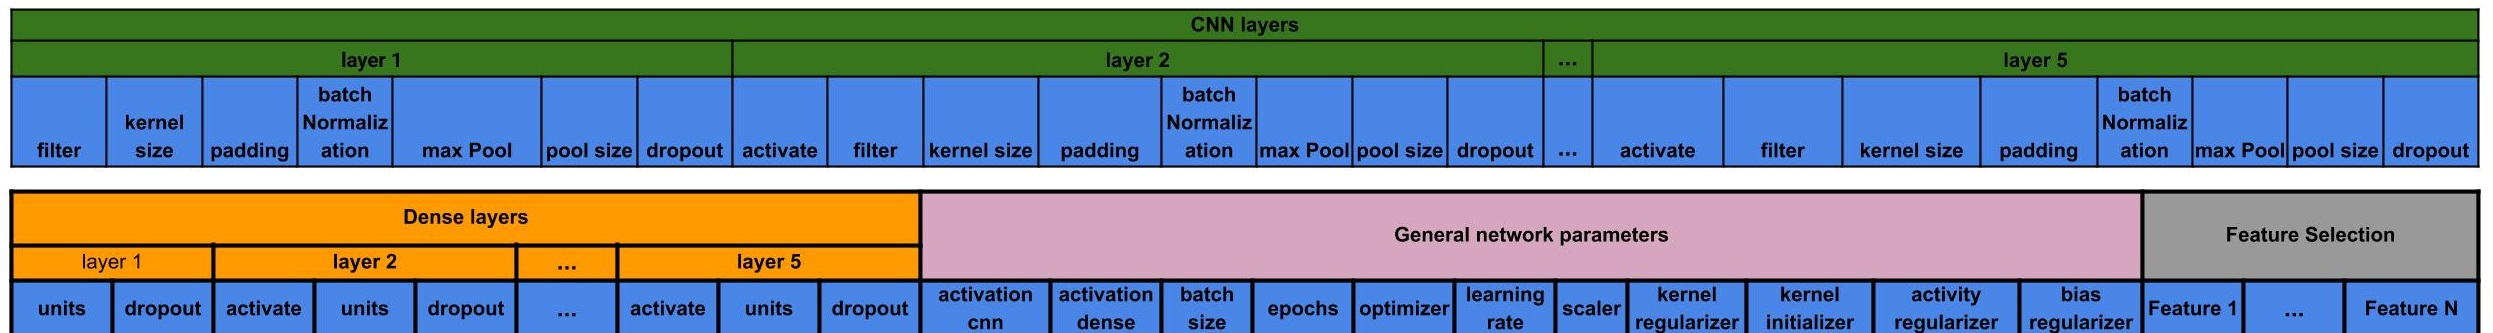
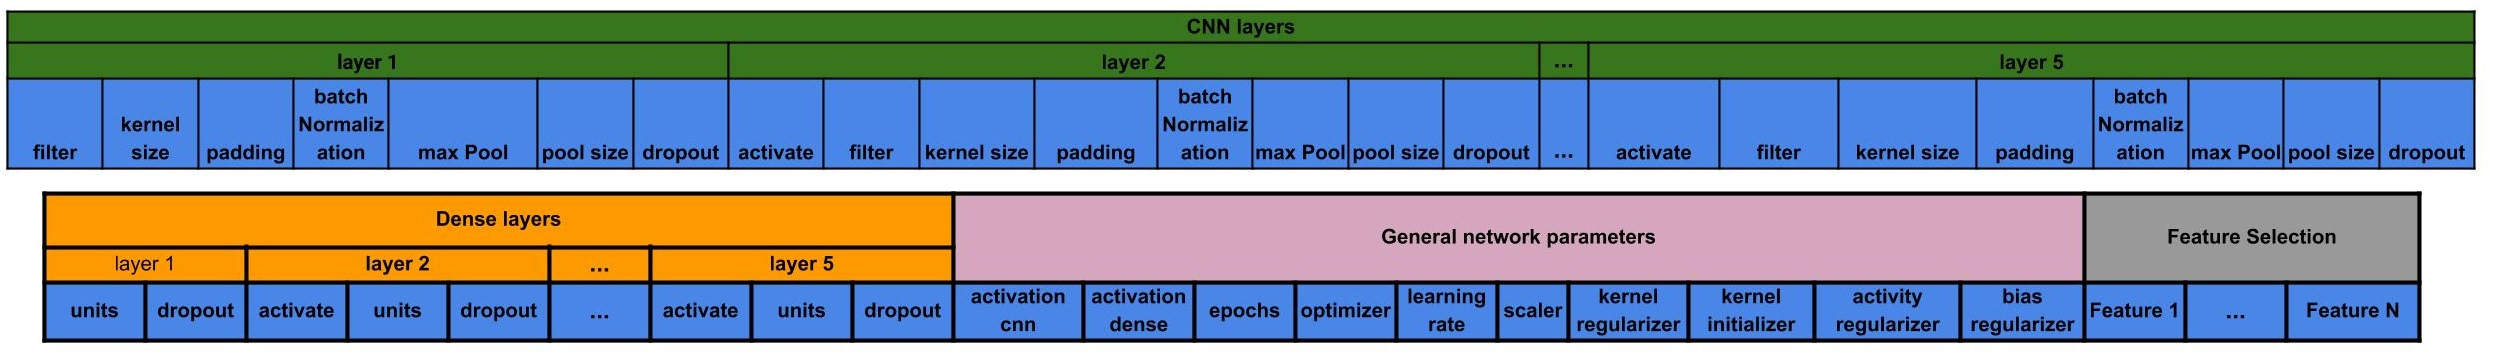
Improvements (#4)
* new: dev: verbose on config

new: dev: verbose on config
fix: dev:  tensorboard port in use error
fix: dev: error on CNN/MLP to load images with . on name

* chg: dev: remove batch size from GA

* version 1.1.0

diff --git a/nnga/datasets/classification/image_csv_dataset.py b/nnga/datasets/classification/image_csv_dataset.py
@@ -1,3 +1,4 @@
+import os
 import numpy as np
 from pathlib import Path
 from statistics import mean, stdev
@@ -69,33 +70,41 @@ class ImageCSVDataset(CSVDataset, ImageDataset):
                 "The id column does not found!\n" "Check the dataset!"
             )
 
+        data = read_dataset(
+            self._dataset_img_path, format="png, jpg, jpeg, tif",
+        )
+        self._metadata = {
+            os.path.splitext(Path(img_path).name)[0]: {
+                "image_path": img_path,
+                "label": str(label),
+            }
+            for img_path, label in zip(data["data"], data["labels"])
+        }
+
+        _metadata_csv = {}
         for df in load_csv_file(
             self._dataset_csv_path, usecols=col_list, chunksize=10
         ):
             for index, row in df.iterrows():
-                self._metadata[str(row["id"])] = {
+                _metadata_csv[str(row["id"])] = {
                     "line_path": index,
                 }
 
-        data = read_dataset(
-            self._dataset_img_path, format="png, jpg, jpeg, tif",
-        )
-
-        _metadata_aux = {
-            Path(img_path).name.split(".")[0]: {
-                "image_path": img_path,
-                "label": label,
-            }
-            for img_path, label in zip(data["data"], data["labels"])
-        }
-        if self._metadata.keys() != _metadata_aux.keys():
-            raise RuntimeError(
-                "The id column does not match the name of the directory images!\n"
-                "Check the dataset!"
-            )
+        if set(self._metadata.keys()) != set(_metadata_csv.keys()):
+            if set(self._metadata.keys()).issubset(_metadata_csv.keys()):
+                self._logger.warning(
+                    f"Some ids from csv is not found on images directory! \n"
+                    f"{list(set(_metadata_csv.keys()).difference(self._metadata.keys()))}")
+            else:
+                msg = "The id column does not match the name of the directory images!\n" \
+                      f"Img not in CSV File: " \
+                      f"{list(set(self._metadata.keys()).difference(_metadata_csv.keys()))}" \
+                      f"\nCheck the dataset!"
+                self._logger.error(msg)
+                raise RuntimeError(msg)
 
         for key in self._metadata.keys():
-            self._metadata[key].update(_metadata_aux[key])
+            self._metadata[key].update(_metadata_csv[key])
 
     def _make_scale_parameters(self):
         """Calculate the scale parameters to be used

diff --git a/nnga/genetic_algorithm/__init__.py b/nnga/genetic_algorithm/__init__.py
@@ -6,7 +6,6 @@ CHECK_PARAMETERS_INTERVAL = {
     "MAX_POOL": [True, False],
     "POOL_SIZE": {"MIN": 2, "MAX": 20},
     "BATCH_NORMALIZATION": [True, False],
-    "BATCH_SIZE": {"MIN": 1, "MAX": 15},
     "EPOCHS": {"MIN": 1, "MAX": 2000},
     "DROPOUT": {"MIN": 0.0, "MAX": 1.0},
     "OPTIMIZER": [
@@ -77,7 +76,6 @@ PARAMETERS_INTERVAL = {
     "MAX_POOL": {"type": "string", "value": [True, False]},
     "POOL_SIZE": {"type": "numbers", "value": None},
     "BATCH_NORMALIZATION": {"type": "string", "value": [True, False]},
-    "BATCH_SIZE": {"type": "numbers", "value": None},
     "EPOCHS": {"type": "numbers", "value": None},
     "DROPOUT": {"type": "numbers", "value": None},
     "OPTIMIZER": {"type": "string", "value": None},
@@ -98,7 +96,6 @@ PARAMETERS_INTERVAL = {
 PARAMETERS_ARCHITECTURE = {
     "DEFAULT": {
         "activation_dense": "ACTIVATION_DENSE",
-        "batch_size": "BATCH_SIZE",
         "epochs": "EPOCHS",
         "optimizer": "OPTIMIZER",
         "learning_rate": "LEARNING_RATE",
@@ -150,7 +147,7 @@ def set_parameters(parameters, architecture, backbone, features):
     for key, value in parameters.items():
         PARAMETERS_INTERVAL[key]["value"] = value
 
-    check_parameters()
+    __check_parameters()
     ENCODING, NAME_FEATURES_SELECTION = create_encoding(
         architecture, backbone, features
     )
@@ -158,13 +155,8 @@ def set_parameters(parameters, architecture, backbone, features):
     return ENCODING, NAME_FEATURES_SELECTION, PARAMETERS_INTERVAL
 
 
-def check_parameters():
-    """Check the parameters provided by cfg
-    Parameters
-        ----------
-        Returns
-        -------
-    """
+def __check_parameters():
+    """Check the parameters provided by cfg"""
     for key, parameter in PARAMETERS_INTERVAL.items():
         if key not in CHECK_PARAMETERS_INTERVAL.keys():
             continue

diff --git a/nnga/model_training.py b/nnga/model_training.py
@@ -4,7 +4,6 @@ import copy
 import os
 from sklearn.model_selection import StratifiedKFold
 from sklearn.model_selection import StratifiedShuffleSplit
-from nnga.utils.helper import dump_tensors
 from nnga.utils.metrics import cross_validation_statistics, compute_metrics
 from nnga.utils.data_io import (
     save_history,
@@ -240,7 +239,6 @@ class ModelTraining:
         self.fit()
         evaluate = self.evaluate()
 
-        dump_tensors()
         self._model.set_weights(Wsave)
         self.fitting_parameters.update(fitting_parameters)
 
@@ -309,7 +307,6 @@ class ModelTraining:
                 f"confusion matrix: \n{metrics['confusion_matrix']}"
             )
 
-            dump_tensors()
             self._model.set_weights(Wsave)
             self.fitting_parameters.update(fitting_parameters)
 
@@ -417,16 +414,19 @@ class ModelTraining:
                 total_steps=total_steps,
                 warmup_steps=total_steps // 10,
                 hold_base_rate_steps=total_steps // 3,
-                verbose=1,
+                verbose=self._cfg.VERBOSE,
             ),
-            EarlyStopping(patience=10, verbose=1, restore_best_weights=True,),
+            EarlyStopping(
+                patience=10,
+                verbose=self._cfg.VERBOSE,
+                restore_best_weights=True,),
         ]
         if not cv:
             callbacks.extend(
                 [
                     ModelCheckpoint(
                         filepath=self._cfg.OUTPUT_DIR,
-                        verbose=1,
+                        verbose=self._cfg.VERBOSE,
                         save_best_only=True,
                     ),
                     TensorBoard(

diff --git a/nnga/configs/defaults.py b/nnga/configs/defaults.py
@@ -10,6 +10,7 @@ from yacs.config import CfgNode as CN
 _C = CN()
 _C.OUTPUT_DIR = "./NNGA_output"  # path to save checkpoints files
 _C.TASK = "Classification"
+_C.VERBOSE = 0
 
 _C.GA = CN()
 _C.GA.NRO_MAX_GEN = 100
@@ -34,7 +35,6 @@ _C.GA.SEARCH_SPACE.UNITS = [20, 50, 80, 100, 150, 200, 250, 500]
 _C.GA.SEARCH_SPACE.FILTERS = [4, 5, 6, 7, 8, 9]
 _C.GA.SEARCH_SPACE.KERNEL_SIZE = [2, 3, 4, 5, 6]
 _C.GA.SEARCH_SPACE.POOL_SIZE = [2, 3, 4, 5]
-_C.GA.SEARCH_SPACE.BATCH_SIZE = [3, 4, 5, 6, 7, 8]
 _C.GA.SEARCH_SPACE.EPOCHS = [30, 45, 60, 90, 120, 150, 200]
 _C.GA.SEARCH_SPACE.DROPOUT = [0.0, 0.1, 0.2, 0.3, 0.4]
 _C.GA.SEARCH_SPACE.OPTIMIZER = ["Adam", "SGD"]

diff --git a/nnga/utils/helper.py b/nnga/utils/helper.py
@@ -1,14 +1,10 @@
-# https://forums.fast.ai/t/gpu-memory-not-being-freed-after-training-is-over/10265/6
 import tensorflow as tf
-
-# from keras import backend as k
 import gc
-from tensorflow.python.framework import ops
 
 
-def dump_tensors(gpu_only=True):
-    """Prints a list of the Tensors being tracked by the garbage collector."""
-    ops.reset_default_graph()
-    # k.clear_session()
+def dump_tensors():
+    """
+    https://forums.fast.ai/t/gpu-memory-not-being-freed-after-training-is-over/10265/6
+    """
     tf.keras.backend.clear_session()
     gc.collect()

diff --git a/nnga/callbacks/model_checkpoint.py b/nnga/callbacks/model_checkpoint.py
@@ -95,10 +95,9 @@ class ModelCheckpoint(Callback):
 
         if os.path.exists(os.path.join(self.modelpath, "saved_model.pb")):
             self.model = load_model(self.modelpath)
-            if self.verbose:
-                self.logger.info(
-                    f"Weights loaded from file found in {self.modelpath}"
-                )
+            self.logger.info(
+                f"Weights loaded from file found in {self.modelpath}"
+            )
 
     def on_epoch_end(self, epoch, logs=None):
         current = logs.get(self.monitor)

diff --git a/nnga/nnga_cli.py b/nnga/nnga_cli.py
@@ -173,11 +173,12 @@ def main():
         logger.error(msg)
 
 
-def launch_tensorboard(logdir, port=6007):
+def launch_tensorboard(logdir):
     """Open tensorboard."""
     tb = program.TensorBoard()
-    tb.configure(argv=[None, "--logdir", logdir, "--port", str(port)])
+    tb.configure(argv=[None, "--logdir", logdir])
     url = tb.launch()
+    print(f"Tensorboard: {url}")
     Timer(1, webbrowser.open_new, args=[url]).start()
 
 

diff --git a/nnga/datasets/classification/image_dataset.py b/nnga/datasets/classification/image_dataset.py
@@ -73,7 +73,7 @@ class ImageDataset(BaseDataset):
         )
 
         self._metadata = {
-            Path(img_path).name.split(".")[0]: {
+            os.path.splitext(Path(img_path).name)[0]: {
                 "image_path": img_path,
                 "label": str(label),
             }

diff --git a/nnga/datasets/base_dataset.py b/nnga/datasets/base_dataset.py
@@ -25,6 +25,7 @@ class BaseDataset(Sequence):
         self._generator_classes = []
         self._class_to_id = None
         self._id_to_class = None
+        self._logger = logger
 
         self._labels = []
         self._class_weigths = {}

diff --git a/nnga/__init__.py b/nnga/__init__.py
@@ -9,7 +9,7 @@ from nnga.datasets.classification.csv_dataset import CSVDataset
 from nnga.datasets.classification.image_csv_dataset import ImageCSVDataset
 
 
-__version__ = "1.0.0"
+__version__ = "1.1.0"
 
 ARCHITECTURES = {
     "MLP": MLP,

diff --git a/README.md b/README.md
@@ -1,5 +1,5 @@
 # **N**eural **N**etwork optimized by **G**enetic **A**lgorithms - (NNGA)
-**Current stable version**: 1.0.0
+**Current stable version**: 1.1.0
 
 Neural Network optimized by Genetic Algorithms - (NNGA) is a library for deep model training, 
 for data classification and segmentation. 
@@ -176,28 +176,26 @@ Not yet implemented
 ## Parameters optimized by the Genetic Algorithm
 ### Optimized parameters for each layer of the Convolutional  Neural Network:
 
-| Parameter | activate | filter | kernel_size | padding | batch_normalization | max_pool | pool_size | dropout |
-| :---: | :---: | :---: | :---: | :---: | :---: | :---: | :---: |  :---: | 
-| Values | True <br/> False | List of integers contained in the range [1:10]. The number of filters is defined by the function: filters = 2^i, where i is the provided value. | List of integers contained in the range [1:20]  | valid <br/> same | True <br/> False | True <br/> False | List of integers contained in the range [1:20] | List of floats contained in the range [0.0:1.0] |
-| Default Values | True <br/> False | [4, 5, 6, 7, 8, 9] | [2, 3, 4, 5, 6]  | valid <br/> same | True <br/> False | True <br/> False | [2, 3, 4, 5] | [0.0, 0.1, 0.2, 0.3, 0.4] |
-| Description | True: this layer is added to the model  <br/><br/> False: this layer is not added to the model  | Integer, the dimensionality of the output space (i.e. the number of output filters in the convolution) | Integer, specifying the height and width of the 2D convolution window. The same value will be used for both dimensions. | Valid: means "no padding" <br/><br/> Same:  results in padding the input such that the output has the same length as the original input | True: Normalize the activations of the previous layer at each batch, i.e. applies a transformation that maintains the mean activation close to 0 and the activation standard deviation close to 1 <br/><br/> False: Does not do anything | True: Applies the max pooling operation <br/><br/> False: Does not do anything	| Integer factor by which to downscale (vertical, horizontal).  The same window length will be used for both dimensions. |	Dropout consists in randomly setting a fraction rate of input units to 0 at each update during training time, which helps prevent overfitting. |
-
+| Parameter      | activate                                                                                       | filter                                                                                                                                          | kernel_size                                                                                                             | padding                                                                                                                                 | batch_normalization                                                                                                                                                                                                                      | max_pool                                                                       | pool_size                                                                                                              | dropout                                                                                                                                        |
+|:--------------:|:----------------------------------------------------------------------------------------------:|:-----------------------------------------------------------------------------------------------------------------------------------------------:|:-----------------------------------------------------------------------------------------------------------------------:|:---------------------------------------------------------------------------------------------------------------------------------------:|:----------------------------------------------------------------------------------------------------------------------------------------------------------------------------------------------------------------------------------------:|:------------------------------------------------------------------------------:|:----------------------------------------------------------------------------------------------------------------------:|:----------------------------------------------------------------------------------------------------------------------------------------------:|
+| Values         | True <br/> False                                                                               | List of integers contained in the range [1:10]. The number of filters is defined by the function: filters = 2^i, where i is the provided value. | List of integers contained in the range [1:20]                                                                          | valid <br/> same                                                                                                                        | True <br/> False                                                                                                                                                                                                                         | True <br/> False                                                               | List of integers contained in the range [1:20]                                                                         | List of floats contained in the range [0.0:1.0]                                                                                                |
+| Default Values | True <br/> False                                                                               | [4, 5, 6, 7, 8, 9]                                                                                                                              | [2, 3, 4, 5, 6]                                                                                                         | valid <br/> same                                                                                                                        | True <br/> False                                                                                                                                                                                                                         | True <br/> False                                                               | [2, 3, 4, 5]                                                                                                           | [0.0, 0.1, 0.2, 0.3, 0.4]                                                                                                                      |
+| Description    | True: this layer is added to the model  <br/><br/> False: this layer is not added to the model | Integer, the dimensionality of the output space (i.e. the number of output filters in the convolution)                                          | Integer, specifying the height and width of the 2D convolution window. The same value will be used for both dimensions. | Valid: means "no padding" <br/><br/> Same:  results in padding the input such that the output has the same length as the original input | True: Normalize the activations of the previous layer at each batch, i.e. applies a transformation that maintains the mean activation close to 0 and the activation standard deviation close to 1 <br/><br/> False: Does not do anything | True: Applies the max pooling operation <br/><br/> False: Does not do anything | Integer factor by which to downscale (vertical, horizontal).  The same window length will be used for both dimensions. | Dropout consists in randomly setting a fraction rate of input units to 0 at each update during training time, which helps prevent overfitting. |
 ### Optimized parameters for each layer of the Multilayer Perceptron:
 
-| Parameter | activate | units | dropout |
-| :---: | :---: | :---: | :---: |
-| Values | True <br/> False | List of integers contained in the range [1:5000] | List of floats contained in the range [0.0:1.0] |
-| Default Values | True <br/> False | [20, 50, 80, 100, 150, 200, 250, 500] | [0.0, 0.1, 0.2, 0.3, 0.4] |
-| Description | True: this layer is added to the model  <br/><br/> False: this layer is not added to the model" | The amount of neurons in the dense layer. | Dropout consists in randomly setting a fraction rate of input units to 0 at each update during training time, which helps prevent overfitting. |
+|    Parameter   |                                             activate                                            |                       units                      |                                                                     dropout                                                                    |
+|:--------------:|:-----------------------------------------------------------------------------------------------:|:------------------------------------------------:|:----------------------------------------------------------------------------------------------------------------------------------------------:|
+|     Values     |                                         True <br/> False                                        | List of integers contained in the range [1:5000] |                                                 List of floats contained in the range [0.0:1.0]                                                |
+| Default Values |                                         True <br/> False                                        |       [20, 50, 80, 100, 150, 200, 250, 500]      |                                                            [0.0, 0.1, 0.2, 0.3, 0.4]                                                           |
+|   Description  | True: this layer is added to the model  <br/><br/> False: this layer is not added to the model" |     The amount of neurons in the dense layer.    | Dropout consists in randomly setting a fraction rate of input units to 0 at each update during training time, which helps prevent overfitting. |
 
 ### Optimized model parameters:
 
-| Parameter | activation_cnn | activation_dense | batch_size | epochs | optimizer | learning_rate | scaler | kernel_regularizer | kernel_initializer | activity_regularizer | bias_regularizer |
-| :---: | :---: | :---: | :---: | :---: | :---: | :---: | :---: | :---: | :---: | :---: | :---: |
-| Values | List of activation functions, among the options:  <br/><br/> relu <br/> tanh <br/> elu <br/> softmax <br/> selu <br/> softplus <br/> softsign <br/> sigmoid <br/> hard_sigmoid <br/> exponential <br/> linear | List of activation functions, among the options:  <br/><br/> relu <br/> tanh <br/> elu <br/> softmax <br/> selu <br/> softplus <br/> softsign <br/> sigmoid <br/> hard_sigmoid <br/> exponential <br/> linear  |  List of integers contained in the range [1:15]. The batch_size is defined by the function: filters = 2^i, where i is the provided value. |  List of integers contained in the range [1:2000] | List of optimizers, among the options:  <br/><br/> Adam <br/> SGD <br/> RMSprop <br/> Adagrad <br/> Adadelta <br/> Adamax <br/> Nadam  | List of floats contained in the range [1E-5:1.0] | List of scaler functions, among the options:  <br/><br/> Standard <br/> MinMax | List of regularizer functions, among the options:  <br/><br/> None  <br/> l1 <br/> l2 <br/> l1_l2 | List of inicializer functions, among the options:  <br/><br/> Zeros <br/> Ones <br/> RandomNormal <br/> RandomUniform <br/> TruncatedNormal <br/> VarianceScaling <br/> Orthogonal <br/> lecun_uniform <br/> glorot_normal <br/> glorot_uniform <br/> he_normal <br/> lecun_normal <br/> he_uniform | List of regularizer functions, among the options:  <br/><br/> None  <br/> l1 <br/> l2 <br/> l1_l2 | List of regularizer functions, among the options:  <br/><br/> None  <br/> l1 <br/> l2 <br/> l1_l2 | 
-| Default Values | ['relu', 'tanh'] | ['relu', 'tanh']  | [3, 4, 5, 6, 7, 8] |  [30, 45, 60, 90, 120, 150, 200] | ['Adam', 'SGD'] | [0.0001, 0.001, 0.01, 0.05, 0.1] | ['Standard', 'MinMax'] | [None] | ['glorot_uniform'] | [None] | [None] | 
-| Description | Activation function to use in the CNN layers. | Activation function to use in the Dense layers. | Number of samples per gradient update. | Number of epochs to train the model. | Optimizer used in training the model. | Learning rate used in training the model. | Standardization method used to scale the data | Regularizer function applied to the kernel weights matrix. <br/> https://keras.io/regularizers/ |  Initializer for the kernel weights matrix. <br/> https://keras.io/initializers/ | Regularizer function applied to the output of the layer (its activation). <br/> https://keras.io/regularizers/ | Regularizer function applied to the bias vector. <br/> https://keras.io/regularizers/ |
-
+|    Parameter   |                                                                                                 activation_cnn                                                                                                |                                                                                                activation_dense                                                                                               |                      epochs                      |                                                               optimizer                                                               |                   learning_rate                  |                                     scaler                                     |                                         kernel_regularizer                                        |                                                                                                                                          kernel_initializer                                                                                                                                         |                                              activity_regularizer                                              |                                          bias_regularizer                                         |
+|:--------------:|:-------------------------------------------------------------------------------------------------------------------------------------------------------------------------------------------------------------:|:-------------------------------------------------------------------------------------------------------------------------------------------------------------------------------------------------------------:|:------------------------------------------------:|:-------------------------------------------------------------------------------------------------------------------------------------:|:------------------------------------------------:|:------------------------------------------------------------------------------:|:-------------------------------------------------------------------------------------------------:|:---------------------------------------------------------------------------------------------------------------------------------------------------------------------------------------------------------------------------------------------------------------------------------------------------:|:--------------------------------------------------------------------------------------------------------------:|:-------------------------------------------------------------------------------------------------:|
+|     Values     | List of activation functions, among the options:  <br/><br/> relu <br/> tanh <br/> elu <br/> softmax <br/> selu <br/> softplus <br/> softsign <br/> sigmoid <br/> hard_sigmoid <br/> exponential <br/> linear | List of activation functions, among the options:  <br/><br/> relu <br/> tanh <br/> elu <br/> softmax <br/> selu <br/> softplus <br/> softsign <br/> sigmoid <br/> hard_sigmoid <br/> exponential <br/> linear | List of integers contained in the range [1:2000] | List of optimizers, among the options:  <br/><br/> Adam <br/> SGD <br/> RMSprop <br/> Adagrad <br/> Adadelta <br/> Adamax <br/> Nadam | List of floats contained in the range [1E-5:1.0] | List of scaler functions, among the options:  <br/><br/> Standard <br/> MinMax | List of regularizer functions, among the options:  <br/><br/> None  <br/> l1 <br/> l2 <br/> l1_l2 | List of inicializer functions, among the options:  <br/><br/> Zeros <br/> Ones <br/> RandomNormal <br/> RandomUniform <br/> TruncatedNormal <br/> VarianceScaling <br/> Orthogonal <br/> lecun_uniform <br/> glorot_normal <br/> glorot_uniform <br/> he_normal <br/> lecun_normal <br/> he_uniform |        List of regularizer functions, among the options:  <br/><br/> None  <br/> l1 <br/> l2 <br/> l1_l2       | List of regularizer functions, among the options:  <br/><br/> None  <br/> l1 <br/> l2 <br/> l1_l2 |
+| Default Values |                                                                                                ['relu', 'tanh']                                                                                               |                                                                                                ['relu', 'tanh']                                                                                               |          [30, 45, 60, 90, 120, 150, 200]         |                                                            ['Adam', 'SGD']                                                            |         [0.0001, 0.001, 0.01, 0.05, 0.1]         |                             ['Standard', 'MinMax']                             |                                               [None]                                              |                                                                                                                                          ['glorot_uniform']                                                                                                                                         |                                                     [None]                                                     |                                               [None]                                              |
+|   Description  |                                                                                 Activation function to use in the CNN layers.                                                                                 |                                                                                Activation function to use in the Dense layers.                                                                                |       Number of epochs to train the model.       |                                                 Optimizer used in training the model.                                                 |     Learning rate used in training the model.    |                  Standardization method used to scale the data                 |  Regularizer function applied to the kernel weights matrix. <br/> https://keras.io/regularizers/  |                                                                                                           Initializer for the kernel weights matrix. <br/> https://keras.io/initializers/                                                                                                           | Regularizer function applied to the output of the layer (its activation). <br/> https://keras.io/regularizers/ |       Regularizer function applied to the bias vector. <br/> https://keras.io/regularizers/       |
 ## Datasets Formats
 
 ### Classification
@@ -233,15 +231,15 @@ The directory structure should look like this:
 #### CSV Dataset Structure
 The CSV structure should look like this:
 
-| id | feature 1 | feature 2 | ... | feature N | class |
-| :---: | :---: | :---: | :---: | :---: | :---: |
-| image_001 | 0.33 | 0.06 | ... | 0.12 | class_1 |
-| image_002 | 0.31 | 0.38 | ... | 0.74 | class_1 |
-| image_003 | 0.28 | 0.56 | ... | 0.18 | class_2 |
-| image_004 | 0.02 | 0.78 | ... | 0.65 | class_2 |
-| image_005 | 0.97 | 0.67 | ... | 0.13 | class_3 |
-| ... | ... | ... | ... | ... | ... |
-| image_N | 0.28 | 0.39 | ... | 0.51 | class_N |
+|     id    | feature 1 | feature 2 | ... | feature N |  class  |
+|:---------:|:---------:|:---------:|:---:|:---------:|:-------:|
+| image_001 |    0.33   |    0.06   | ... |    0.12   | class_1 |
+| image_002 |    0.31   |    0.38   | ... |    0.74   | class_1 |
+| image_003 |    0.28   |    0.56   | ... |    0.18   | class_2 |
+| image_004 |    0.02   |    0.78   | ... |    0.65   | class_2 |
+| image_005 |    0.97   |    0.67   | ... |    0.13   | class_3 |
+|    ...    |    ...    |    ...    | ... |    ...    |   ...   |
+|  image_N  |    0.28   |    0.39   | ... |    0.51   | class_N |
 
 
 The file can be sep = ',' and decimal point = '.':

diff --git a/getting-started.md b/getting-started.md
@@ -33,6 +33,8 @@ Here we could see an example of experiment file:
 ```yaml
 TASK: "Classification"
 
+VERBOSE: 0
+
 # Dataset experiment configuration
 DATASET:
   SCALER: "Standard"
@@ -69,7 +71,6 @@ GA:
     FILTERS: [4, 5, 6, 7, 8, 9]
     KERNEL_SIZE: [2, 3, 4, 5, 6]
     POOL_SIZE: [2, 3, 4, 5]
-    BATCH_SIZE: [3, 4, 5, 6, 7, 8]
     EPOCHS: [30, 45, 60, 90, 120, 150, 200]
     DROPOUT: [0.0, 0.1, 0.2, 0.3, 0.4]
     OPTIMIZER: ['Adam', 'SGD']
@@ -117,7 +118,13 @@ The first important option is about what task the experiment will do. Nowadays 2
 # - Segmentation
 TASK: "Classification"
 ```
-The second section is about datasets: 
+The second section is about messages:
+```yaml
+# 0: quiet, 
+# 1: show callback messages
+VERBOSE: 0
+```
+The next section is about datasets: 
 ```yaml
 # Dataset experiment configuration
 DATASET:
@@ -236,9 +243,6 @@ GA:
 
     # Pooling size to be used by Pooling layer
     POOL_SIZE: [2, 3, 4, 5]
-
-    # Batch size to be used during the model train
-    BATCH_SIZE: [3, 4, 5, 6, 7, 8]
   
     # Number of epochs to train the model
     EPOCHS: [30, 45, 60, 90, 120, 150, 200]
@@ -305,6 +309,7 @@ MODEL:
   FEATURE_SELECTION: false  
 
   # Define input shape of experiment
+  # For pre-trained models, should be with 3 channels: [, , 3]
   INPUT_SHAPE: [150, 150, 3]
   
   # Define the Dropout rate to be used by the model
@@ -340,7 +345,6 @@ SOLVER:
   TEST_SIZE: 0.2
   
   # Batch size to be used during the model train
-  # Is used only when the BACKBONE is not "GASearch"
   BATCH_SIZE: 128
 
   # Number of epochs to train the model
